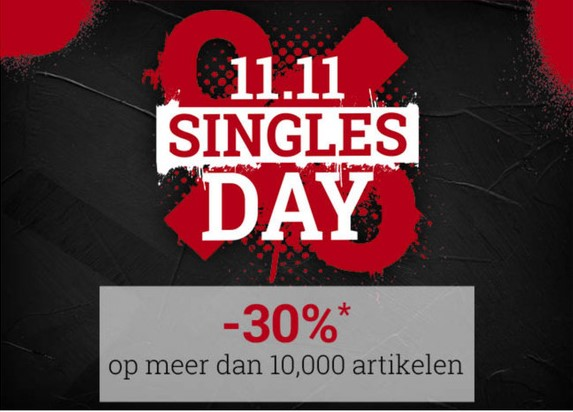
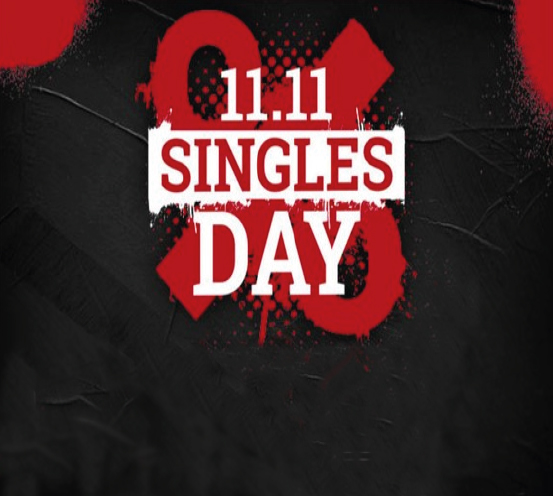
Add files via upload

diff --git a/styles/style.css b/styles/style.css
@@ -39,7 +39,7 @@ figure.header>figcaption {
   width: 170px
 }
 
-header>div>span>a>img {
+header>div>span.logo>a>img {
   height: 75px;
   margin-right: 150px;
   margin-top: 10px;
@@ -61,7 +61,7 @@ button {
   padding: 0px;
 }
 
-input[type=search] {
+div.header input[type=search] {
   width: 400px;
   padding: 10px;
 }
@@ -69,7 +69,7 @@ input[type=search] {
 a.icon>img {
   width: 30px;
   height: 30px;
-  margin: 0px;
+  /* margin: 0px; */
   margin-left: 40px;
 }
 
@@ -79,41 +79,92 @@ span.icon {
 }
 
 div.header {
-  position: relative;
+  /* position: relative; */
   display: flex;
   justify-content: center;
-  flex-grow: 1;
-  max-width: 100%;
+  flex-wrap: wrap;
+  min-width: 0px;
 }
 
 nav ul {
   display: flex;
   flex-direction: row;
-  justify-content: center;
+  /* justify-content: center; */
   list-style-type: none;
   background-color: #B5191E;
   padding: 10px;
   margin-bottom: 0px;
 }
 
-nav a {
-  text-decoration: none;
-  font-size: 18px;
-  color: white;
-  padding-left: 25px;
-  padding-right: 25px;
+nav li {
+  display: flex;
+  flex-grow: 1;
 }
 
-@media screen and (max-width: 1280px) {
+nav a {
+  text-decoration: none;
+  font-size: 17px;
+  color: white;
+  padding-left: 20px;
+  padding-right: 20px;
+}
+
+@media screen and (max-width: 1200px) {
+
+  figure.header{
+    display: none;
+  }
+
   nav {
-    background-color: #2B2B2B;
+    display: flex;
+    flex-direction: row;
+    /* background-color: #2B2B2B; */
     width: 300px;
   }
 
   nav ul {
-    display: flex;
+    display: none;
     flex-direction: column;
+    background-color: #B41C20;
+    width: 300px;
+    /* visibility: hidden; */
   }
+
+  div.header span.logo {
+    display: flex;
+    justify-content: center;
+  }
+
+  header>div>span.logo>a>img {
+    height: 40px;
+    margin-right: 0px;
+  }
+
+  div.header input[type=search] {
+    width: 400px;
+    flex-grow: 1;
+  }
+
+  div.header form {
+    display: flex;
+    justify-content: center;
+    margin: 0px;
+    border-style: solid;
+    border-color: #B41C20;
+    border-width: 6px;
+    flex-grow: 1;
+    background-color: white;
+  }
+
+  div.header {
+    display: block;
+    justify-content: center;
+  }
+
+  span.icon {
+    display: none;
+  }
+
 }
 
 /* -------------------Body------------------- */
@@ -142,15 +193,20 @@ article.banner>p>a {
 section.slider {
   display: flex;
   justify-content: center;
-  height: 620px;
+  max-width: 100%;
+  height: auto;
+  /* padding: 100px; */
 }
 
 section.slider figure {
-  /* display: none; */
+  position: relative;
+  max-width: 100%;
+  min-width: 10%;
 }
 
 section.slider>figure>img {
-  min-width: 400px;
+  max-width: 100%;
+  height: auto;
 }
 
 section.slider>figure>article {
@@ -160,6 +216,7 @@ section.slider>figure>article {
   left: 100px;
   padding: 20px;
   width: 300px;
+  max-width: 100%;
   background-color: rgba(255, 255, 255, 0.7);
 }
 
@@ -173,27 +230,23 @@ section.slider figure a {
   font-size: 30px;
   color: black;
 }
-section.slider form {
+
+section.slider figure button {
   position: absolute;
-    margin-top: 290px;
+  right: 0px;
+  left: 0px;
+  top: 35%;
+  bottom: 0px;
+  height: 50px;
+  padding-left: 10px;
+  padding-right: 10px;
 }
 
-section.slider form button {
-  /* padding: 30px; */
-  /* padding-left: 20px; */
-  /* padding-right: 20px; */
-  background-color: white;
-  opacity: 70%;
-  font-size: 40px;
-  height: 100px;
-  width: 50px;
-}
-section.slider form button:nth-last-of-type(1){
-  margin-left: 1300px;
+section.slider figure button:nth-last-of-type(1) {
+  left: 100%;
 }
 
 /* -------------------Section 2------------------- */
-
 section.twee {
   display: flex;
   justify-content: center;
@@ -201,8 +254,8 @@ section.twee {
 }
 
 section.twee img {
-  width: 600px;
-  height: 550px;
+  max-width: 100%;
+  height: auto;
 }
 
 section.twee img:nth-last-of-type(1) {
@@ -210,7 +263,6 @@ section.twee img:nth-last-of-type(1) {
 }
 
 /* -------------------Section 3------------------- */
-
 section.drie {
   display: flex;
   justify-content: center;
@@ -222,7 +274,8 @@ section.drie article {
   width: 1250px;
   overflow: scroll;
 }
-section.drie article figure figcaption{
+
+section.drie article figure figcaption {
   text-align: center;
 }
 

diff --git a/index.html b/index.html
@@ -35,7 +35,7 @@
 		</div>
 
 		<div class="header">
-			<span>
+			<span class="logo">
 				<a href="./index.html"><img src="./images/logo.PNG" alt="Logo"></a>
 			</span>
 			<form action="#">
@@ -79,6 +79,8 @@
 					<p>Kerst bij Large!</p>
 					<a href="#">Ontdek het nu!</a>
 				</article>
+				<button type="button" name="backward">&#10094;</button>
+				<button type="button" name="forward">&#10095;</button>
 			</figure>
 			<!-- <figure>
 				<img src="./images/kerst.jpg" alt="">
@@ -90,15 +92,11 @@
 				<p>Kerst bij Large!</p>
 				<p>Ontdek het nu!</p>
 			</figure> -->
-			<form action="#">
-				<button type="button" name="backward">&#10094;</button>
-				<button type="button" name="forward">&#10095;</button>
-			</form>
 
 		</section>
 		<section class="twee">
-			<img src="./images/singlesday.png" alt="singlesday">
-			<img src="./images/kado.png" alt="Cadeautjes">
+			<img src="./images/singlesday.jpg" alt="singlesday">
+			<img src="./images/kado.jpg" alt="Cadeautjes">
 		</section>
 		<section class="drie">
 			<article>
